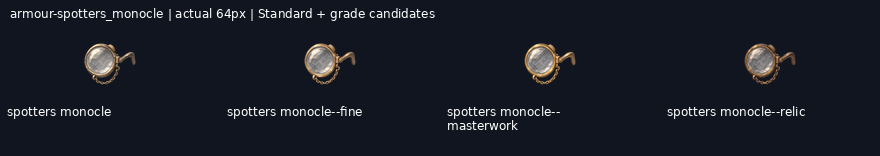
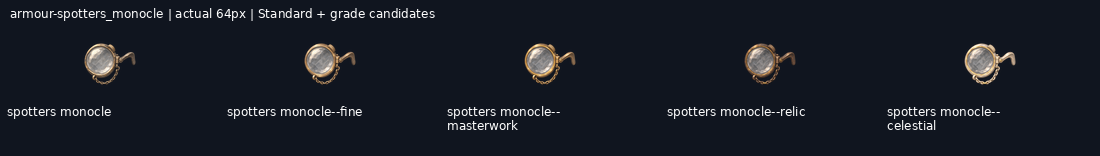
art: draw armour-spotters_monocle--celestial grade candidate

diff --git a/art/_archive/gear/2026-11-19-kept-blade-grades/HANDOFF.md b/art/_archive/gear/2026-11-19-kept-blade-grades/HANDOFF.md
@@ -1,6 +1,6 @@
 # Gear grade candidates
 
-**140/208 grade candidates delivered** on `art/2026-11-19-kept-blade-grades`. Shared mailbox: https://github.com/leonpentastorm/Project-Heaven-Cry/issues/3 . See claim.json for this lane’s current Standards. Released overlapping blades reuse12 peer candidates, with3 local alternatives archived.
+**141/208 grade candidates delivered** on `art/2026-11-19-kept-blade-grades`. Shared mailbox: https://github.com/leonpentastorm/Project-Heaven-Cry/issues/3 . See claim.json for this lane’s current Standards. Released overlapping blades reuse12 peer candidates, with3 local alternatives archived.
 
 Leon requested continuous candidate production; proof approval is not fabricated. All candidates remain review-candidate, production_approved:false, implementation_ready:false, with outline.review_required:true. Exact outline is measured, never asserted unless the masks match. Per-image registration is uniform scaling/translation only, without warp, silhouette masks, filled pixels or code-drawn substitutes. The generated native remains untouched.
 
@@ -10,12 +10,12 @@ Tomorrow: fetch this branch and develop safely, read the latest issue 3 comments
 
 Peer audit: [coordination/peer-audit-2026-11-19.md](coordination/peer-audit-2026-11-19.md). Peer58 masters/232 exports and12 canonical imports are integrated with versioned alpha<8 cleanup; originals are retained. See coordination/peer-import-v2/manifest.json and post-catalog VALIDATION.json (strict margins pass, solid alpha unchanged). Peer quota resets20 November2026 at09:45:39 Bangkok time; this does not establish this session’s quota.
 
-Remaining: weapon-ork_machete--masterwork, weapon-ork_machete--relic, weapon-ork_machete--celestial, weapon-war_axe--fine, weapon-war_axe--masterwork, weapon-war_axe--relic, weapon-war_axe--celestial, weapon-parlour_pistol--fine, weapon-parlour_pistol--masterwork, weapon-parlour_pistol--relic, weapon-parlour_pistol--celestial, weapon-lever_carbine--fine, weapon-lever_carbine--masterwork, weapon-lever_carbine--relic, weapon-lever_carbine--celestial, weapon-sawn_off--fine, weapon-sawn_off--masterwork, weapon-sawn_off--relic, weapon-sawn_off--celestial, weapon-coach_gun--fine, weapon-coach_gun--masterwork, weapon-coach_gun--relic, weapon-coach_gun--celestial, weapon-legion_bullpup--fine, weapon-legion_bullpup--masterwork, weapon-legion_bullpup--relic, weapon-legion_bullpup--celestial, weapon-whisper_smg--fine, weapon-whisper_smg--masterwork, weapon-whisper_smg--relic, weapon-whisper_smg--celestial, armour-spotters_monocle--celestial, armour-sight_visor--fine, armour-sight_visor--masterwork, armour-sight_visor--relic, armour-sight_visor--celestial, armour-breather--fine, armour-breather--masterwork, armour-breather--relic, armour-breather--celestial, armour-sealed_visor--fine, armour-sealed_visor--masterwork, armour-sealed_visor--relic, armour-sealed_visor--celestial, armour-breacher_plate--fine, armour-breacher_plate--masterwork, armour-breacher_plate--relic, armour-breacher_plate--celestial, armour-mesh_undersuit--fine, armour-mesh_undersuit--masterwork, armour-mesh_undersuit--relic, armour-mesh_undersuit--celestial, armour-rig_belt--fine, armour-rig_belt--masterwork, armour-rig_belt--relic, armour-rig_belt--celestial, armour-field_trousers--fine, armour-field_trousers--masterwork, armour-field_trousers--relic, armour-field_trousers--celestial, armour-tactical_gloves--fine, armour-tactical_gloves--masterwork, armour-tactical_gloves--relic, armour-tactical_gloves--celestial, armour-jump_boots--fine, armour-jump_boots--masterwork, armour-jump_boots--relic, armour-jump_boots--celestial.
+Remaining: weapon-ork_machete--masterwork, weapon-ork_machete--relic, weapon-ork_machete--celestial, weapon-war_axe--fine, weapon-war_axe--masterwork, weapon-war_axe--relic, weapon-war_axe--celestial, weapon-parlour_pistol--fine, weapon-parlour_pistol--masterwork, weapon-parlour_pistol--relic, weapon-parlour_pistol--celestial, weapon-lever_carbine--fine, weapon-lever_carbine--masterwork, weapon-lever_carbine--relic, weapon-lever_carbine--celestial, weapon-sawn_off--fine, weapon-sawn_off--masterwork, weapon-sawn_off--relic, weapon-sawn_off--celestial, weapon-coach_gun--fine, weapon-coach_gun--masterwork, weapon-coach_gun--relic, weapon-coach_gun--celestial, weapon-legion_bullpup--fine, weapon-legion_bullpup--masterwork, weapon-legion_bullpup--relic, weapon-legion_bullpup--celestial, weapon-whisper_smg--fine, weapon-whisper_smg--masterwork, weapon-whisper_smg--relic, weapon-whisper_smg--celestial, armour-sight_visor--fine, armour-sight_visor--masterwork, armour-sight_visor--relic, armour-sight_visor--celestial, armour-breather--fine, armour-breather--masterwork, armour-breather--relic, armour-breather--celestial, armour-sealed_visor--fine, armour-sealed_visor--masterwork, armour-sealed_visor--relic, armour-sealed_visor--celestial, armour-breacher_plate--fine, armour-breacher_plate--masterwork, armour-breacher_plate--relic, armour-breacher_plate--celestial, armour-mesh_undersuit--fine, armour-mesh_undersuit--masterwork, armour-mesh_undersuit--relic, armour-mesh_undersuit--celestial, armour-rig_belt--fine, armour-rig_belt--masterwork, armour-rig_belt--relic, armour-rig_belt--celestial, armour-field_trousers--fine, armour-field_trousers--masterwork, armour-field_trousers--relic, armour-field_trousers--celestial, armour-tactical_gloves--fine, armour-tactical_gloves--masterwork, armour-tactical_gloves--relic, armour-tactical_gloves--celestial, armour-jump_boots--fine, armour-jump_boots--masterwork, armour-jump_boots--relic, armour-jump_boots--celestial.
 
 Service-rejected requests (do not repeatedly resubmit): weapon-coach_gun--fine, weapon-legion_bullpup--fine, weapon-lever_carbine--fine, weapon-ork_machete--masterwork, weapon-parlour_pistol--fine, weapon-sawn_off--fine, weapon-war_axe--fine, weapon-whisper_smg--fine.
 
 Waiting on rejected prerequisites: weapon-coach_gun--celestial, weapon-coach_gun--masterwork, weapon-coach_gun--relic, weapon-legion_bullpup--celestial, weapon-legion_bullpup--masterwork, weapon-legion_bullpup--relic, weapon-lever_carbine--celestial, weapon-lever_carbine--masterwork, weapon-lever_carbine--relic, weapon-ork_machete--celestial, weapon-ork_machete--relic, weapon-parlour_pistol--celestial, weapon-parlour_pistol--masterwork, weapon-parlour_pistol--relic, weapon-sawn_off--celestial, weapon-sawn_off--masterwork, weapon-sawn_off--relic, weapon-war_axe--celestial, weapon-war_axe--masterwork, weapon-war_axe--relic, weapon-whisper_smg--celestial, weapon-whisper_smg--masterwork, weapon-whisper_smg--relic.
 
-Ready independent next steps, in queue order: armour-spotters_monocle--celestial, armour-sight_visor--fine, armour-breather--fine, armour-sealed_visor--fine, armour-breacher_plate--fine, armour-mesh_undersuit--fine, armour-rig_belt--fine, armour-field_trousers--fine, armour-tactical_gloves--fine, armour-jump_boots--fine. Other pending grades follow their preceding grade.
+Ready independent next steps, in queue order: armour-sight_visor--fine, armour-breather--fine, armour-sealed_visor--fine, armour-breacher_plate--fine, armour-mesh_undersuit--fine, armour-rig_belt--fine, armour-field_trousers--fine, armour-tactical_gloves--fine, armour-jump_boots--fine. Other pending grades follow their preceding grade.
 
 Runtime handoff: implementation_ready:false records review status but does not gate the web asset builder. The builder emits grade asset keys; the current UI gear resolver still needs grade-aware selection. Do not claim that runtime grade selection is implemented by these art deliveries.
